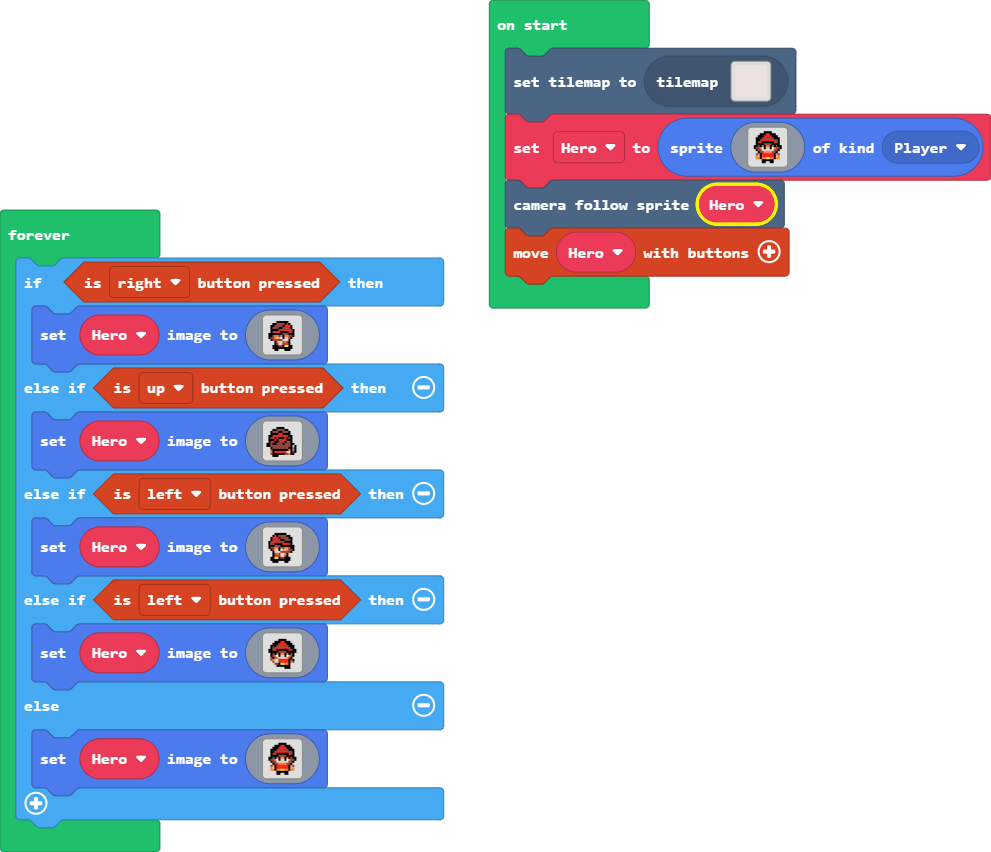
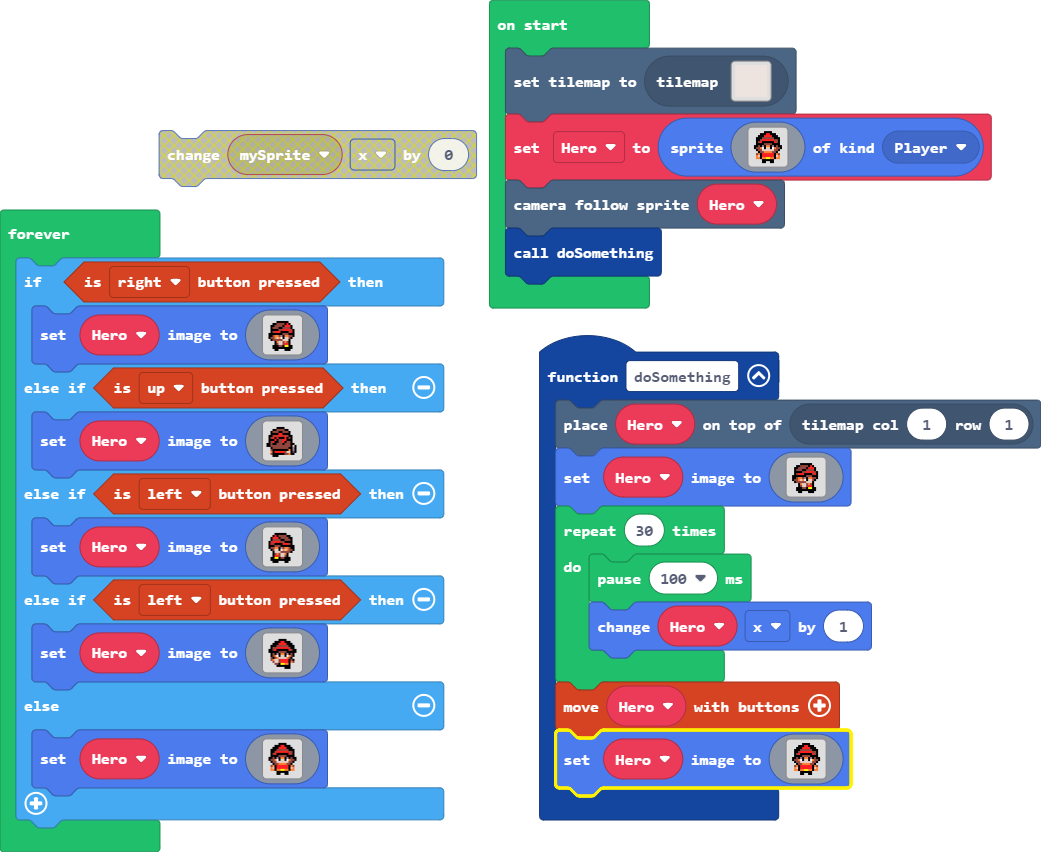
Update main.blocks, main.ts

diff --git a/main.ts b/main.ts
@@ -1,5 +1,50 @@
+function doSomething () {
+    tiles.placeOnTile(Hero, tiles.getTileLocation(1, 1))
+    Hero.setImage(img`
+        . . . . . . . . . . . . . . . . 
+        . . . . . f f f f f f . . . . . 
+        . . . f f e e e e f 2 f . . . . 
+        . . f f e e e e f 2 2 2 f . . . 
+        . . f e e e f f e e e e f . . . 
+        . . f f f f e e 2 2 2 2 e f . . 
+        . . f e 2 2 2 f f f f e 2 f . . 
+        . f f f f f f f e e e f f f . . 
+        . f f e 4 4 e b f 4 4 e e f . . 
+        . f e e 4 d 4 1 f d d e f . . . 
+        . . f e e e e e d d d f . . . . 
+        . . . . f 4 d d e 4 e f . . . . 
+        . . . . f e d d e 2 2 f . . . . 
+        . . . f f f e e f 5 5 f f . . . 
+        . . . f f f f f f f f f f . . . 
+        . . . . f f . . . f f f . . . . 
+        `)
+    for (let index = 0; index < 30; index++) {
+        pause(100)
+        Hero.x += 1
+    }
+    controller.moveSprite(Hero)
+    Hero.setImage(img`
+        . . . . . . f f f f . . . . . . 
+        . . . . f f f 2 2 f f f . . . . 
+        . . . f f f 2 2 2 2 f f f . . . 
+        . . f f f e e e e e e f f f . . 
+        . . f f e 2 2 2 2 2 2 e e f . . 
+        . . f e 2 f f f f f f 2 e f . . 
+        . . f f f f e e e e f f f f . . 
+        . f f e f b f 4 4 f b f e f f . 
+        . f e e 4 1 f d d f 1 4 e e f . 
+        . . f e e d d d d d d e e f . . 
+        . . . f e e 4 4 4 4 e e f . . . 
+        . . e 4 f 2 2 2 2 2 2 f 4 e . . 
+        . . 4 d f 2 2 2 2 2 2 f d 4 . . 
+        . . 4 4 f 4 4 5 5 4 4 f 4 4 . . 
+        . . . . . f f f f f f . . . . . 
+        . . . . . f f . . f f . . . . . 
+        `)
+}
+let Hero: Sprite = null
 tiles.setCurrentTilemap(tilemap`level1`)
-let Hero = sprites.create(img`
+Hero = sprites.create(img`
     . . . . . . f f f f . . . . . . 
     . . . . f f f 2 2 f f f . . . . 
     . . . f f f 2 2 2 2 f f f . . . 
@@ -18,7 +63,7 @@ let Hero = sprites.create(img`
     . . . . . f f . . f f . . . . . 
     `, SpriteKind.Player)
 scene.cameraFollowSprite(Hero)
-controller.moveSprite(Hero)
+doSomething()
 forever(function () {
     if (controller.right.isPressed()) {
         Hero.setImage(img`
